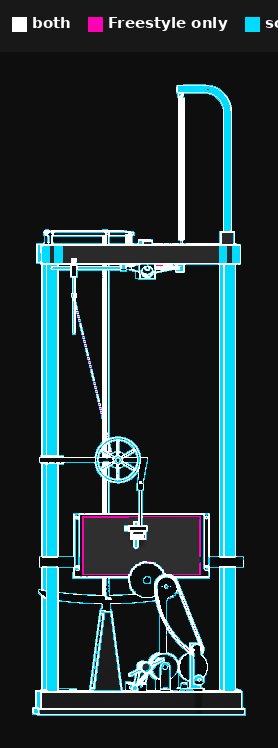
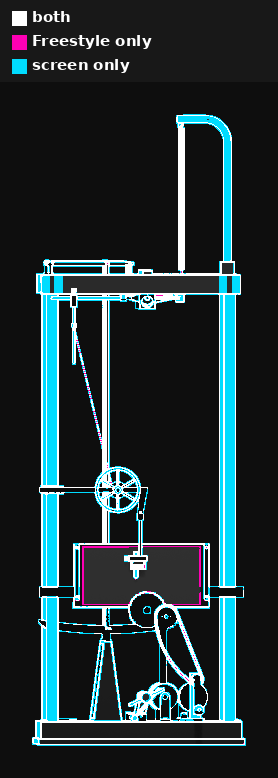
Fix comparison overlay legend

diff --git a/tools/compare_edge_renders.py b/tools/compare_edge_renders.py
@@ -82,15 +82,24 @@ def difference_overlay(
 
 
 def labeled_overlay(overlay: Image.Image) -> Image.Image:
-    canvas = Image.new("RGB", (overlay.width, overlay.height + LABEL_HEIGHT), "#181818")
-    canvas.paste(overlay, (0, LABEL_HEIGHT))
-    draw = ImageDraw.Draw(canvas)
-    label_font = font(15)
     entries = (
         ("both", SHARED),
         ("Freestyle only", FREESTYLE_ONLY),
         ("screen only", SCREEN_ONLY),
     )
+    compact = overlay.width < 500
+    label_height = 82 if compact else LABEL_HEIGHT
+    canvas = Image.new("RGB", (overlay.width, overlay.height + label_height), "#181818")
+    canvas.paste(overlay, (0, label_height))
+    draw = ImageDraw.Draw(canvas)
+    label_font = font(15)
+    if compact:
+        for row, (label, color) in enumerate(entries):
+            y = 8 + row * 24
+            draw.rectangle((12, y + 3, 26, y + 17), fill=color)
+            draw.text((32, y), label, fill="white", font=label_font)
+        return canvas
+
     x = 12
     for label, color in entries:
         draw.rectangle((x, 17, x + 14, 31), fill=color)